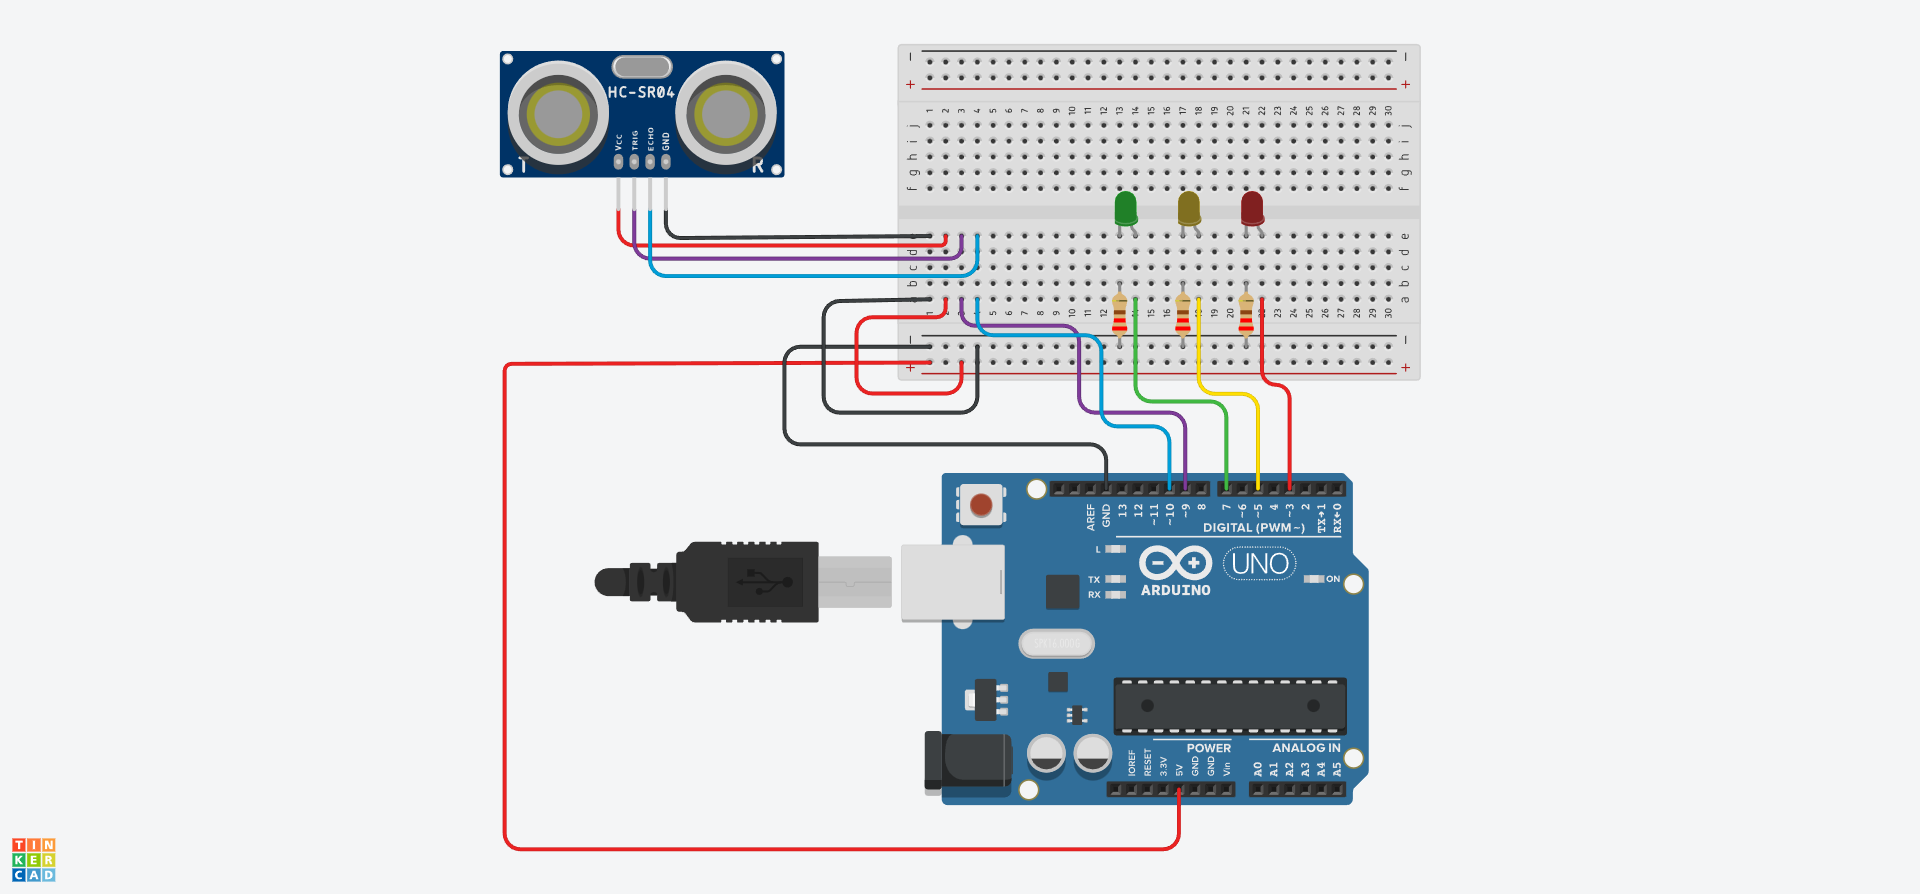
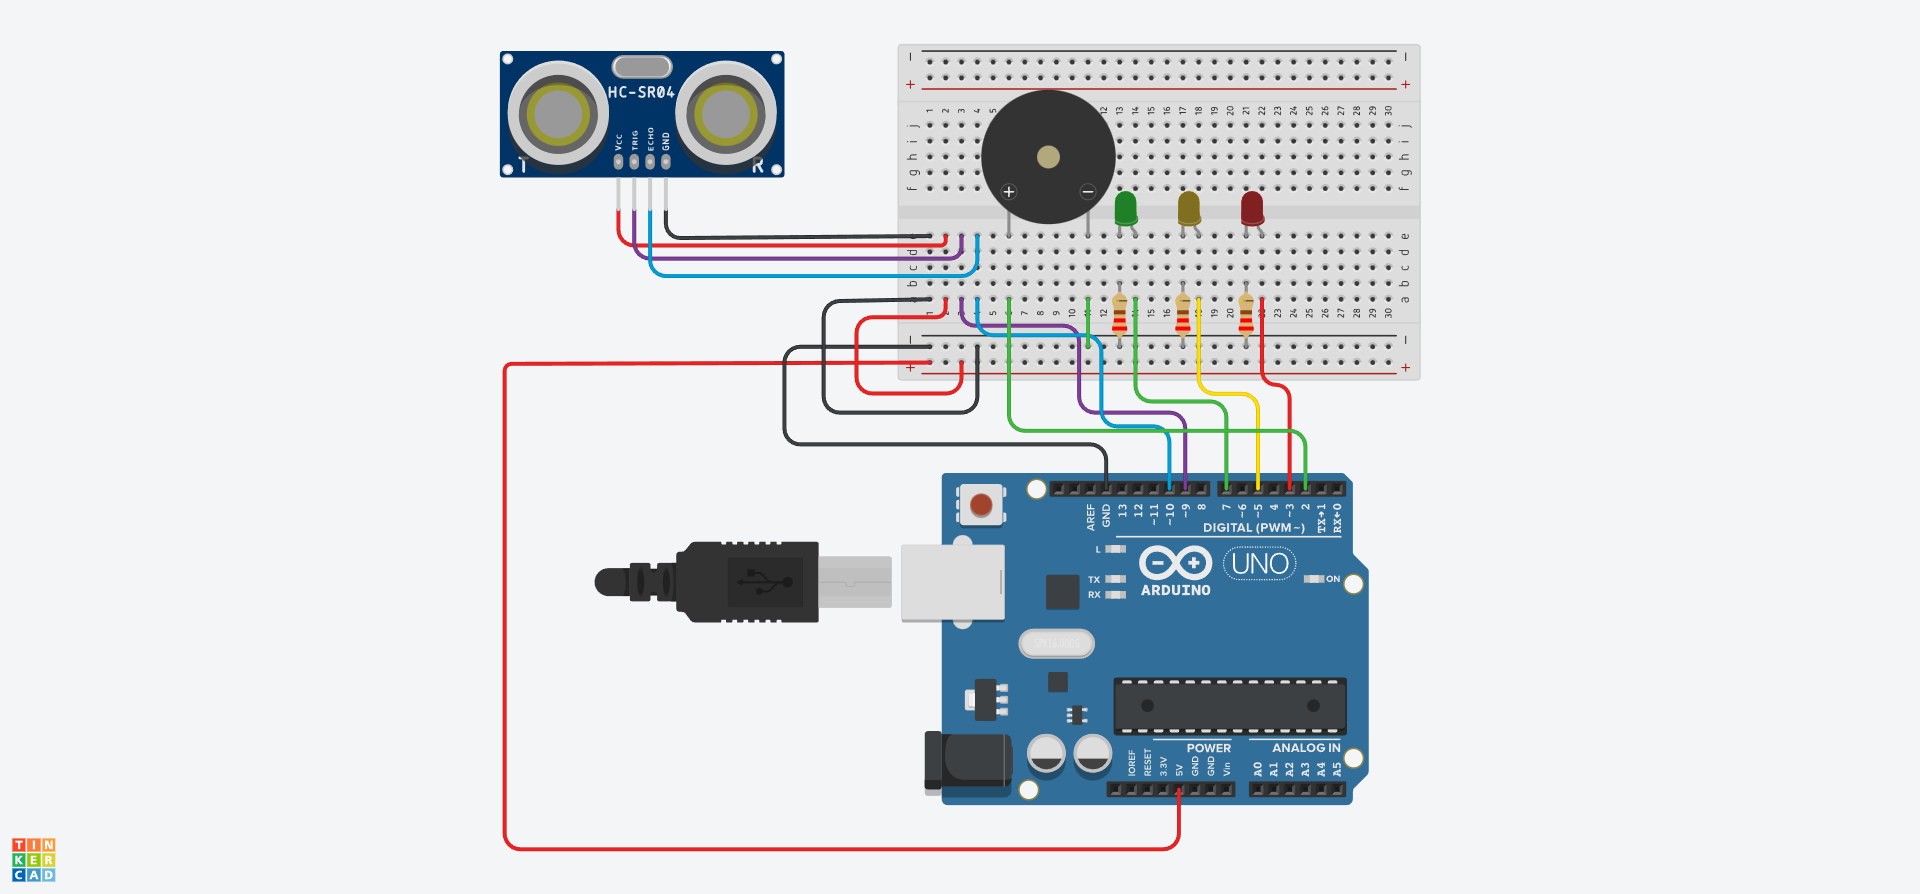
Add buzzer support, updated circuit diagram, and schematic

Changed region(s): [[0.5, 0.0906, 0.5938, 0.2718], [0.5312, 0.453, 0.6562, 0.4832], [0.6562, 0.4832, 0.6875, 0.5134]]

diff --git a/arduino/ultrasonic_distance_measurer/src/main.cpp b/arduino/ultrasonic_distance_measurer/src/main.cpp
@@ -3,9 +3,11 @@
 const int trigPin = 9;
 const int echoPin = 10;
 
-const int redLED    = 3;
+const int redLED = 3;
 const int yellowLED = 5;
-const int greenLED  = 7;
+const int greenLED = 7;
+
+const int buzzerPIN = 2;
 
 void setup() {
   pinMode(trigPin, OUTPUT);
@@ -14,44 +16,54 @@ void setup() {
   pinMode(redLED, OUTPUT);
   pinMode(yellowLED, OUTPUT);
   pinMode(greenLED, OUTPUT);
+  pinMode(buzzerPIN, OUTPUT);
 
   Serial.begin(9600);
 }
 
 void loop() {
-  // Send ultrasonic pulse
   digitalWrite(trigPin, LOW);
   delayMicroseconds(2);
+
   digitalWrite(trigPin, HIGH);
   delayMicroseconds(10);
   digitalWrite(trigPin, LOW);
 
-  // Read echo
-  long duration = pulseIn(echoPin, HIGH); 
+  long duration = pulseIn(echoPin, HIGH);
   float distance = duration * 0.034 / 2;
 
   Serial.print("Distance: ");
   Serial.print(distance);
   Serial.println(" cm");
 
-  // LED logic
   if (distance < 10 && distance > 0) {
-    // VERY CLOSE
     digitalWrite(redLED, HIGH);
     digitalWrite(yellowLED, LOW);
     digitalWrite(greenLED, LOW);
+
+    digitalWrite(buzzerPIN, HIGH);
+    delay(100);
+    digitalWrite(buzzerPIN, LOW);
+    delay(100);
   }
+
   else if (distance >= 10 && distance <= 20) {
-    // MEDIUM
     digitalWrite(redLED, LOW);
     digitalWrite(yellowLED, HIGH);
     digitalWrite(greenLED, LOW);
+
+    digitalWrite(buzzerPIN, HIGH);
+    delay(300);
+    digitalWrite(buzzerPIN, LOW);
+    delay(300);
   }
+
   else {
-    // FAR
     digitalWrite(redLED, LOW);
     digitalWrite(yellowLED, LOW);
     digitalWrite(greenLED, HIGH);
+
+    digitalWrite(buzzerPIN, LOW);
   }
 
   delay(200);

diff --git a/arduino/ultrasonic_distance_measurer/README.md b/arduino/ultrasonic_distance_measurer/README.md
@@ -1,8 +1,8 @@
 # Ultrasonic Distance Measurer
 
 An Arduino-based embedded systems project that measures the distance to an
-object using an HC-SR04 ultrasonic sensor and provides real-time visual
-feedback using red, yellow, and green LEDs.
+object using an HC-SR04 ultrasonic sensor and provides real-time visual and audible
+feedback LEDs and an active buzzer.
 
 The project demonstrates basic sensor interfacing, timing-based distance
 calculation, and decision-making logic on a microcontroller.
@@ -51,6 +51,14 @@ The complete wiring for the project is shown below.
 ![Circuit Diagram](circuit_diagram.png)
 
 
+## Schematic Diagram
+
+The schematic below shows the logical electrical connections between the
+Arduino Uno, ultrasonic sensor, LEDs, and the active buzzer.
+
+![Schematic](schematic.png)
+
+
 ## Hardware Components
 
 - Arduino Uno
@@ -74,7 +82,11 @@ The complete wiring for the project is shown below.
 - **Yellow LED** → D5 (via resistor)
 - **Green LED** → D7 (via resistor)
 
-All LED cathodes are connected to ground.
+### Buzzer
+- **Active Buzzer (+)** → D6
+- **Active Buzzer (–)** → GND
+
+All cathodes are connected to ground.
 
 
 ## Software & Tools
